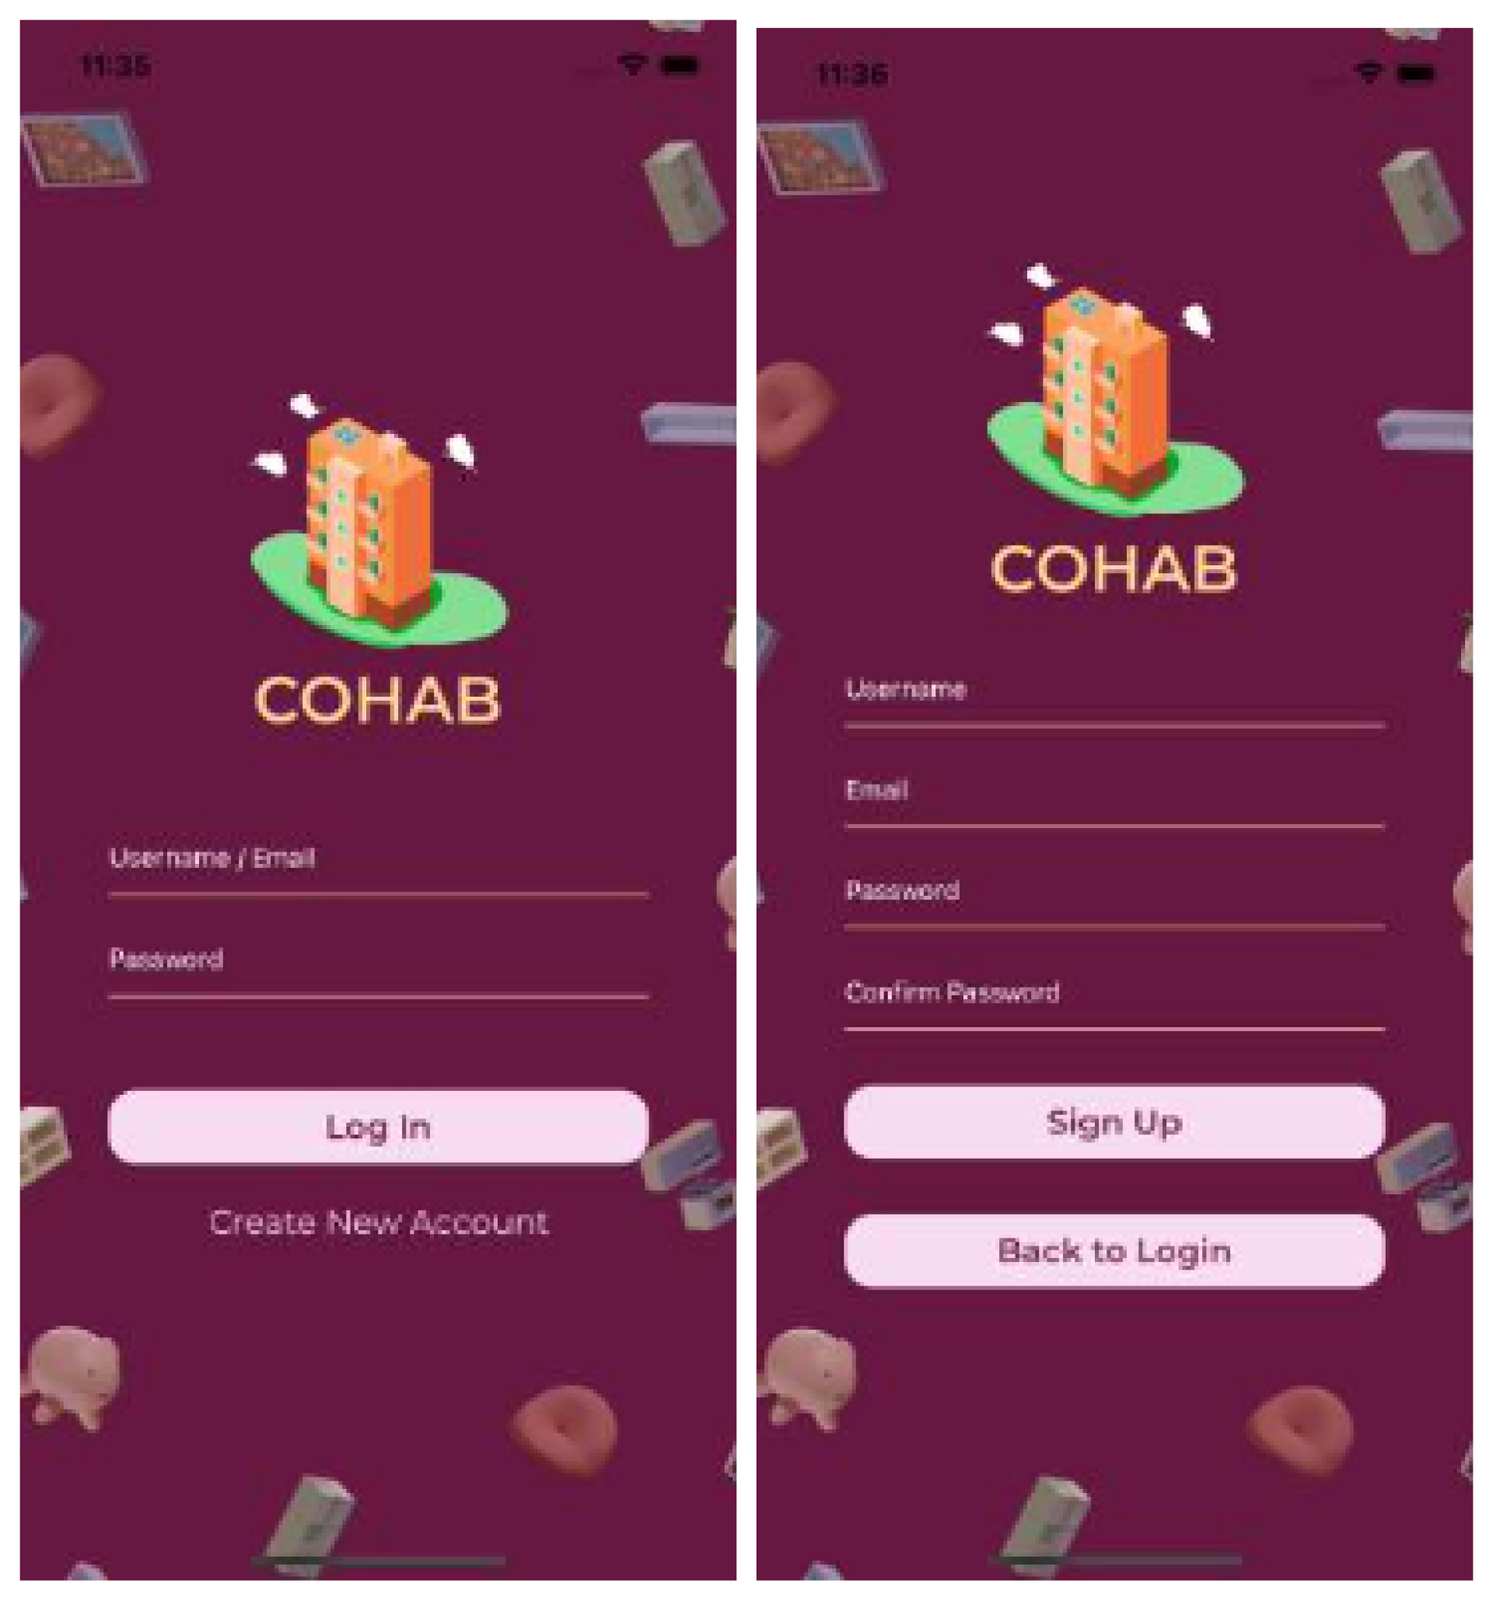
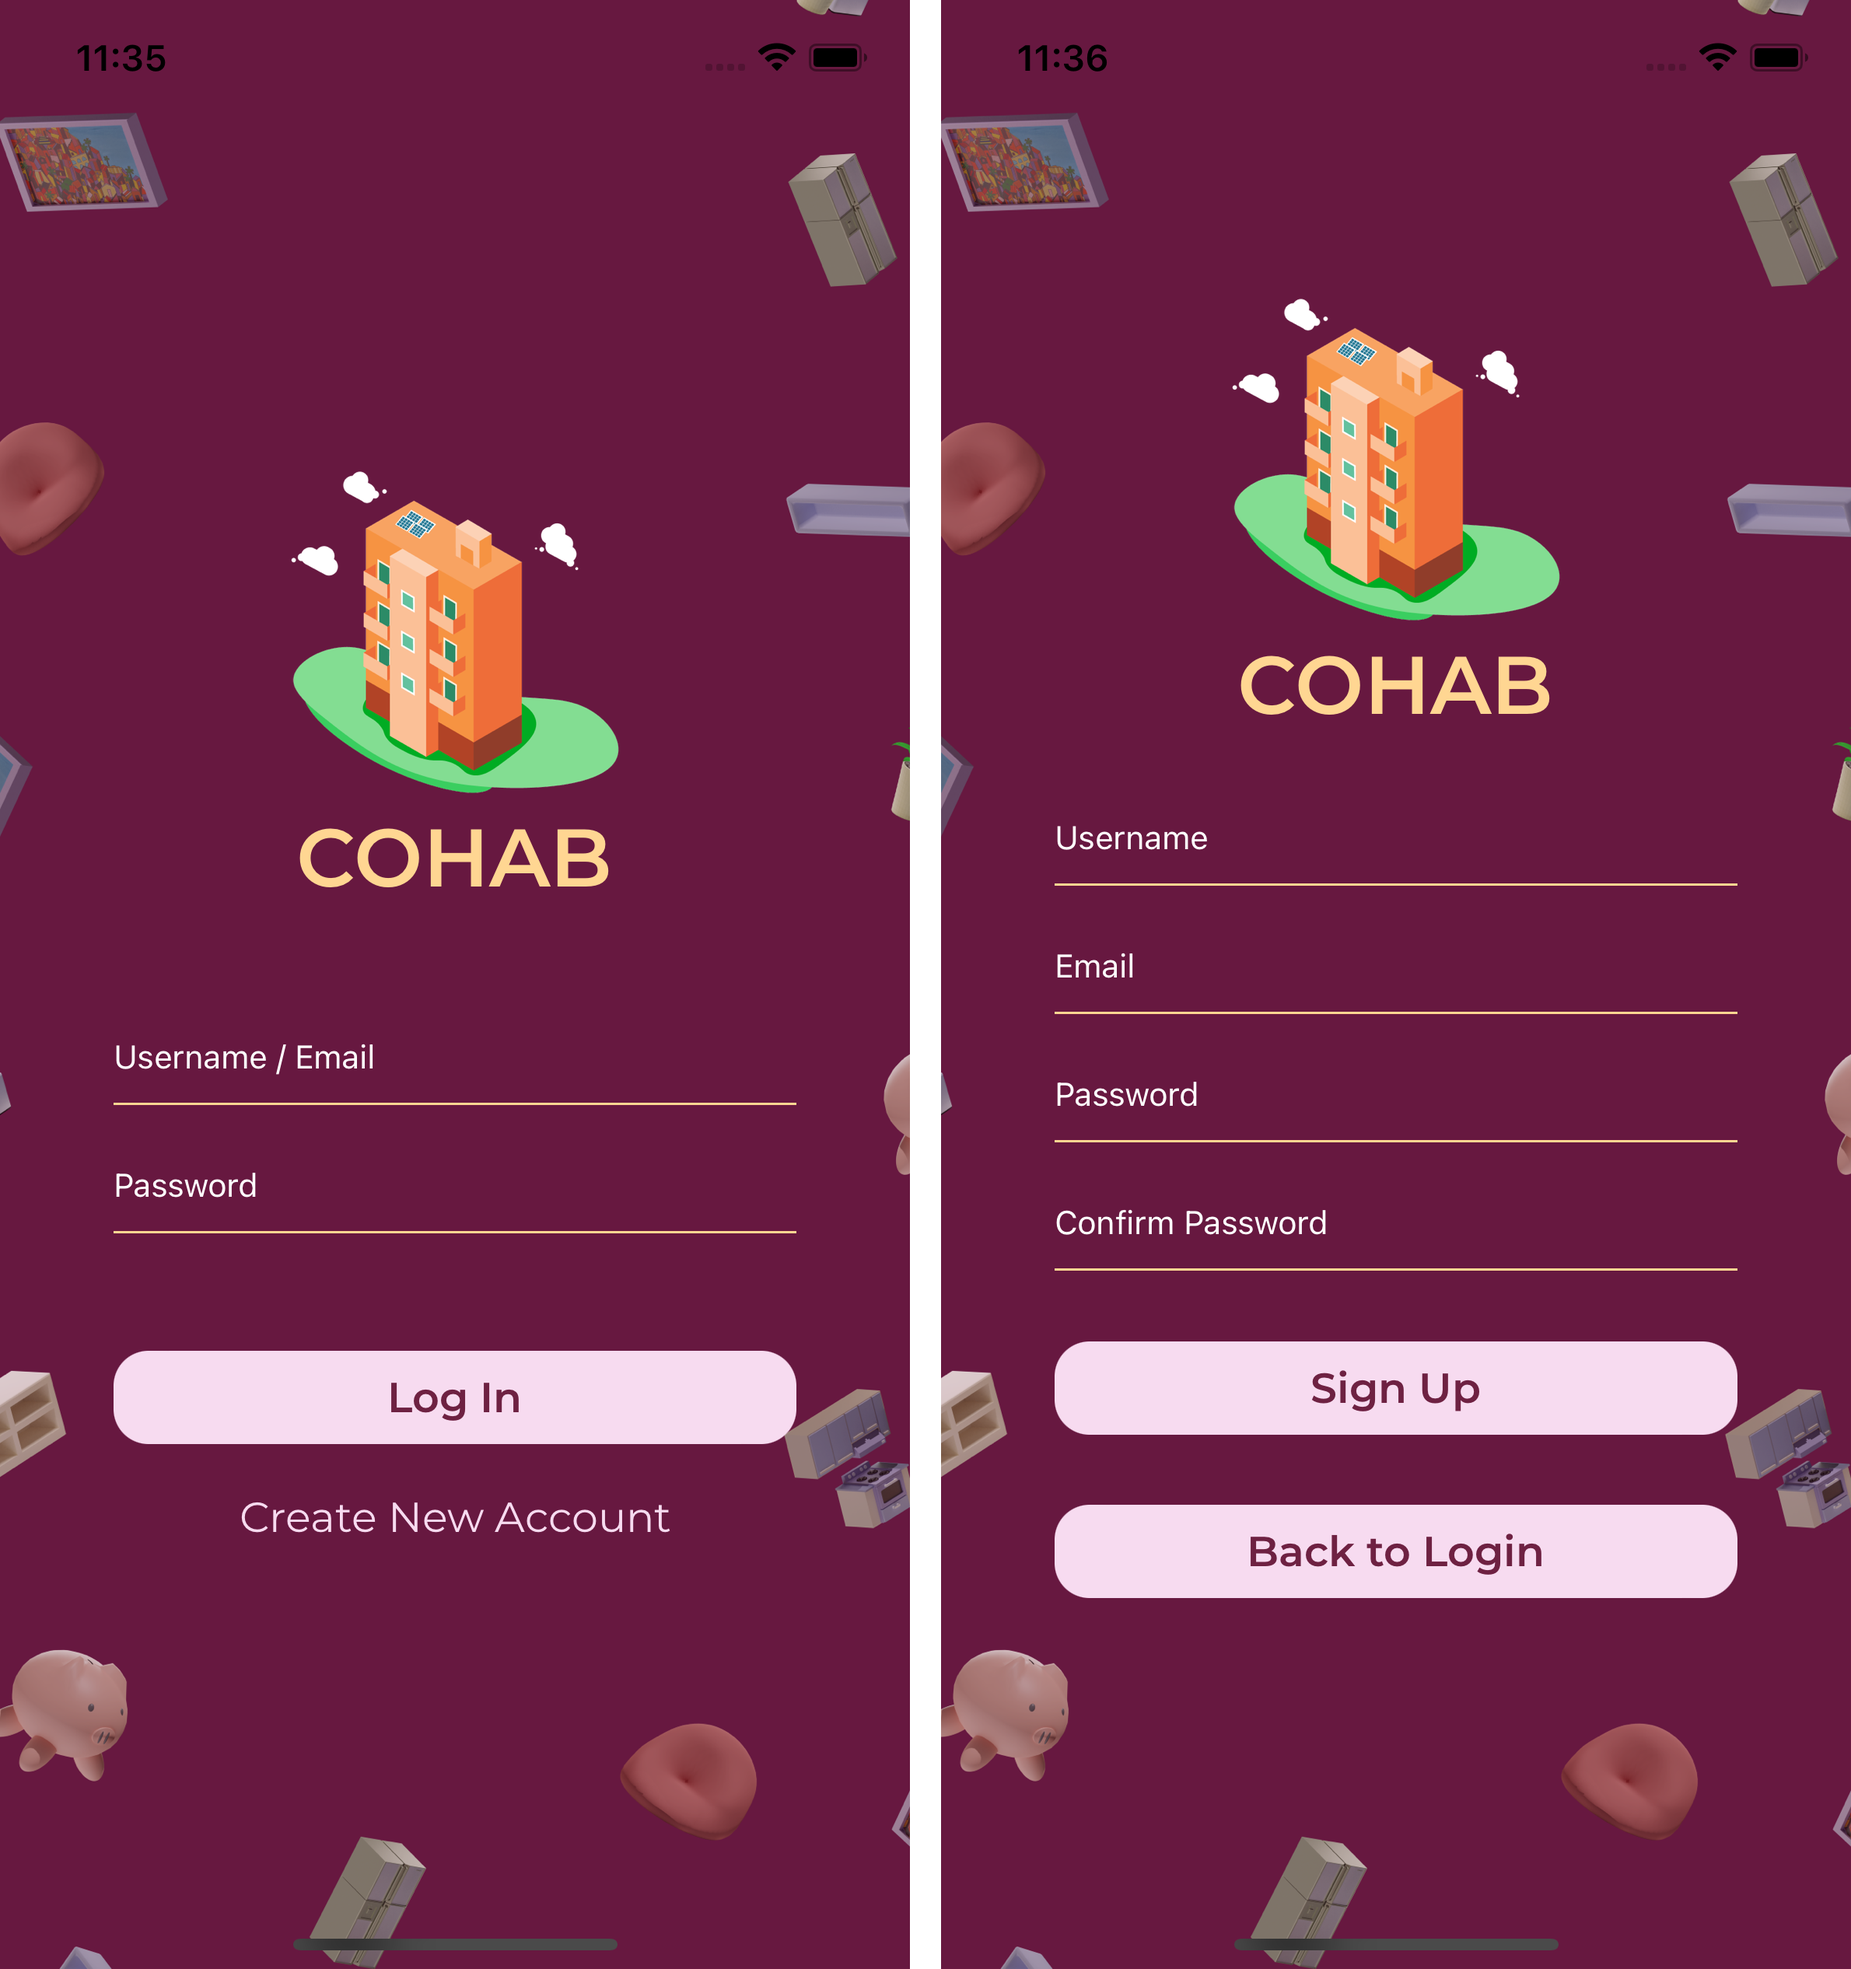
Added new high resolution Cohab project images

diff --git a/app/projects/cohab/FeatureSection/index.tsx b/app/projects/cohab/FeatureSection/index.tsx
@@ -43,7 +43,7 @@ const FeatureSection = memo((props: FeatureSectionProp) => {
               width={0}
               height={0}
               sizes="1"
-              className="w-[75%] rounded-[10px] md:rounded-[20px]"
+              className="w-[80%] rounded-[10px] md:rounded-[20px]"
             />
           </div>
         </div>
